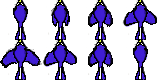
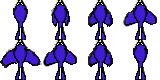
updating the bird sprite and sleep animation.

diff --git a/src/com/shade/entities/bird/SleepingBird.java b/src/com/shade/entities/bird/SleepingBird.java
@@ -31,9 +31,11 @@ public class SleepingBird implements State {
     }
 
     private void initResources() throws SlickException {
-        SpriteSheet idles = new SpriteSheet("entities/bird/fly2.png", 40, 40);
-        idling = new Animation(idles, 100);
-        idling.setAutoUpdate(false);
+        SpriteSheet idles = new SpriteSheet("entities/bird/fly.png", 40, 40);
+        idling = new Animation(false);
+        idling.addFrame(idles.getSprite(0, 0), 300);
+        idling.addFrame(idles.getSprite(1, 0), 300);
+        idling.addFrame(idles.getSprite(2, 0), 300);
         idling.setPingPong(true);
     }
 
@@ -61,8 +63,8 @@ public class SleepingBird implements State {
     }
 
     public void update(StateBasedGame game, int delta) {
-        idling.update(delta);
         bird.wake();
+        idling.update(delta);
         testTimer(delta);
     }
 
